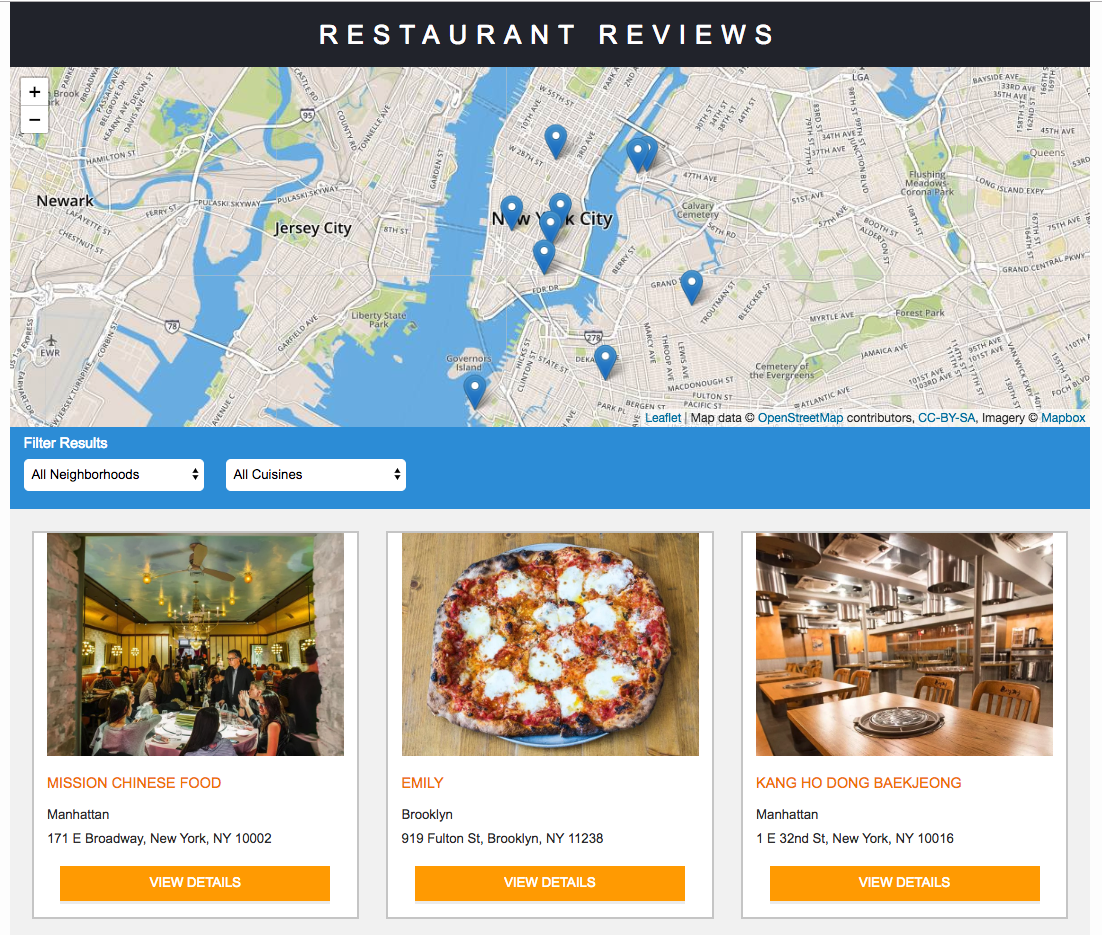
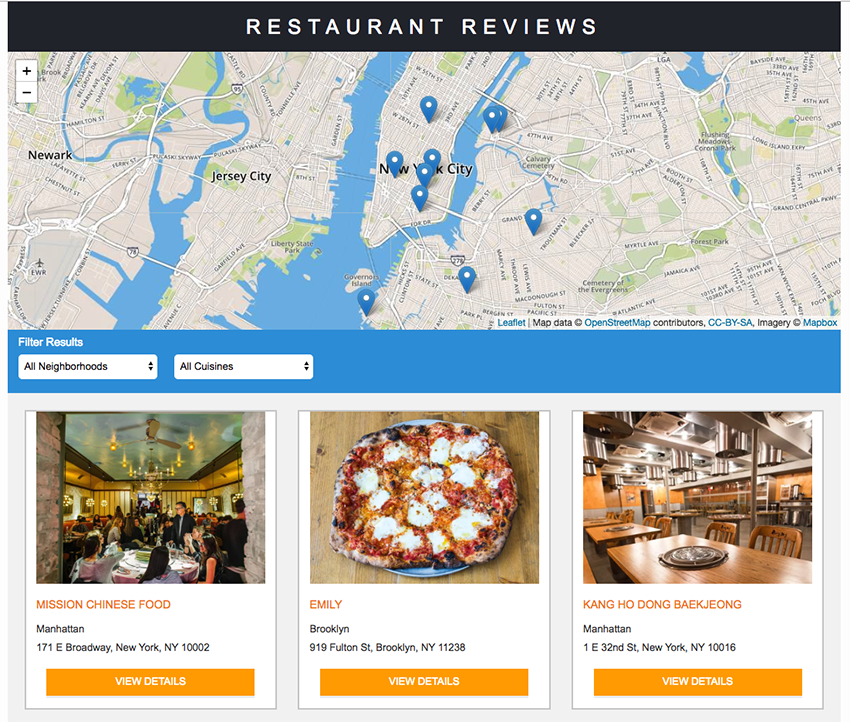
Update README format and resize screenshot

diff --git a/README.md b/README.md
@@ -1,6 +1,5 @@
 # Restaurant Reviews
 
-## Summary
 In this project, which are including the following:
 1. Loading the map. This repository uses [leafletjs](https://leafletjs.com/) with [Mapbox](https://www.mapbox.com/). You need to replace `<your MAPBOX API KEY HERE>` with a token from [Mapbox](https://www.mapbox.com/).
 2. Explore the provided code, and implement the required feature in three areas:
@@ -15,6 +14,7 @@ In this project, which are including the following:
 	Python 2: `python -m SimpleHTTPServer 8000` 
 	Python 3: `python3 -m http.server 8000`
 4. Visit the site in your browser at http://localhost:8000
+![Home Page](img/RestaurantReviews.png)
 
 ### Resource/Referencce
 1. [Udacity Restaurant Review App Project](https://www.diigo.com/outliner/fjslyn/Udacity-Restaurant-Reviews-App-(project-%235)?key=zqiopam1yz)
